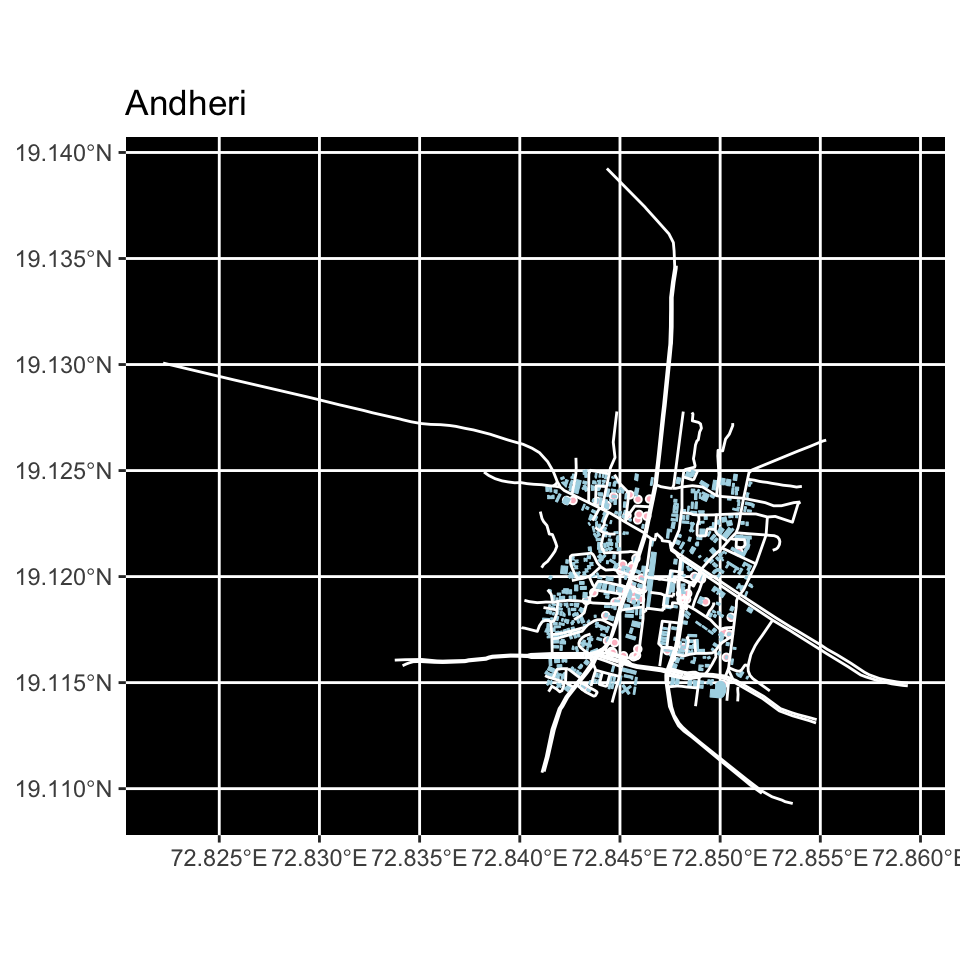
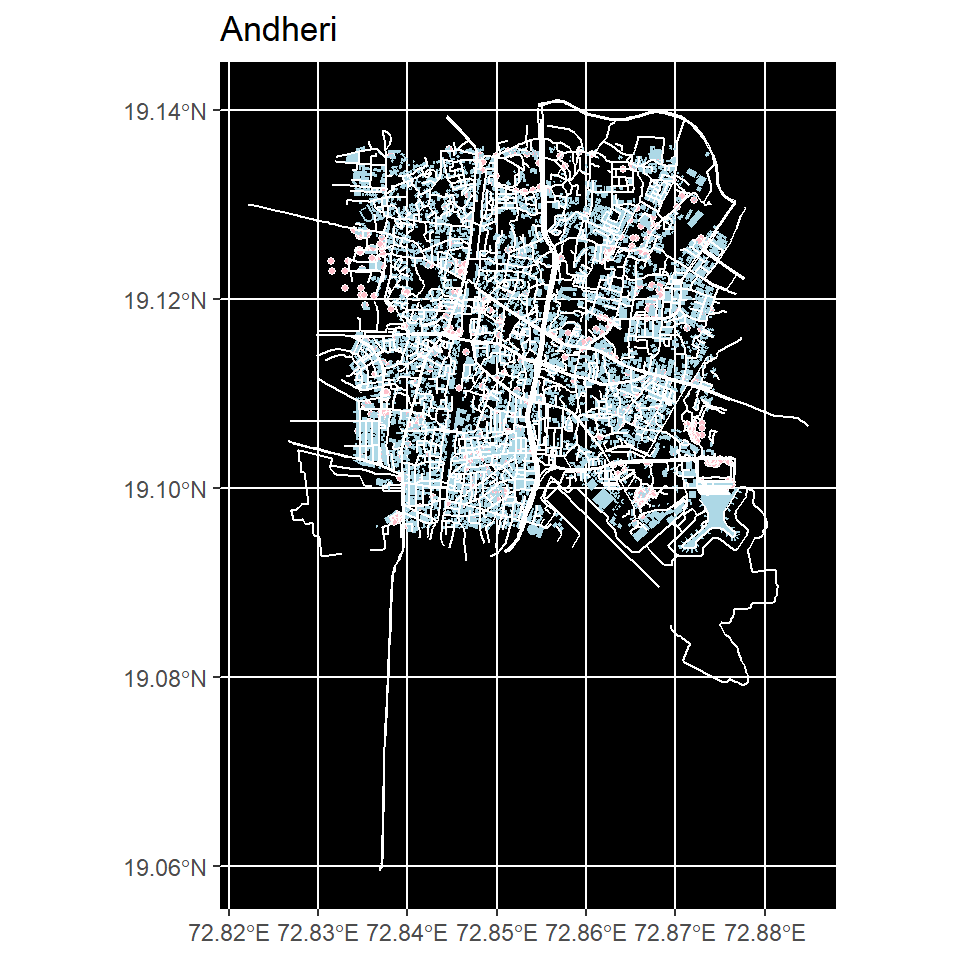
Aarushi

diff --git a/content/portfolio/2021-07-25-aarushi-paingankar/index.html b/content/portfolio/2021-07-25-aarushi-paingankar/index.html
@@ -50,7 +50,7 @@ depth in mm</p>
 total depth percentage = z / mean</p>
 <p>10.table<br />
 width of top of diamond relative to widest point</p>
-<pre><code>## # A tibble: 6 × 10
+<pre><code>## # A tibble: 6 x 10
 ##   carat cut       color clarity depth table price     x     y     z
 ##   &lt;dbl&gt; &lt;ord&gt;     &lt;ord&gt; &lt;ord&gt;   &lt;dbl&gt; &lt;dbl&gt; &lt;int&gt; &lt;dbl&gt; &lt;dbl&gt; &lt;dbl&gt;
 ## 1  0.23 Ideal     E     SI2      61.5    55   326  3.95  3.98  2.43
@@ -61,16 +61,16 @@ width of top of diamond relative to widest point</p>
 ## 6  0.24 Very Good J     VVS2     62.8    57   336  3.94  3.96  2.48</code></pre>
 <pre><code>## Rows: 53,940
 ## Columns: 10
-## $ carat   &lt;dbl&gt; 0.23, 0.21, 0.23, 0.29, 0.31, 0.24, 0.24, 0.26, 0.22, 0.23, 0.…
-## $ cut     &lt;ord&gt; Ideal, Premium, Good, Premium, Good, Very Good, Very Good, Ver…
-## $ color   &lt;ord&gt; E, E, E, I, J, J, I, H, E, H, J, J, F, J, E, E, I, J, J, J, I,…
-## $ clarity &lt;ord&gt; SI2, SI1, VS1, VS2, SI2, VVS2, VVS1, SI1, VS2, VS1, SI1, VS1, …
-## $ depth   &lt;dbl&gt; 61.5, 59.8, 56.9, 62.4, 63.3, 62.8, 62.3, 61.9, 65.1, 59.4, 64…
-## $ table   &lt;dbl&gt; 55, 61, 65, 58, 58, 57, 57, 55, 61, 61, 55, 56, 61, 54, 62, 58…
-## $ price   &lt;int&gt; 326, 326, 327, 334, 335, 336, 336, 337, 337, 338, 339, 340, 34…
-## $ x       &lt;dbl&gt; 3.95, 3.89, 4.05, 4.20, 4.34, 3.94, 3.95, 4.07, 3.87, 4.00, 4.…
-## $ y       &lt;dbl&gt; 3.98, 3.84, 4.07, 4.23, 4.35, 3.96, 3.98, 4.11, 3.78, 4.05, 4.…
-## $ z       &lt;dbl&gt; 2.43, 2.31, 2.31, 2.63, 2.75, 2.48, 2.47, 2.53, 2.49, 2.39, 2.…</code></pre>
+## $ carat   &lt;dbl&gt; 0.23, 0.21, 0.23, 0.29, 0.31, 0.24, 0.24, 0.26, 0.22, 0.23, 0.~
+## $ cut     &lt;ord&gt; Ideal, Premium, Good, Premium, Good, Very Good, Very Good, Ver~
+## $ color   &lt;ord&gt; E, E, E, I, J, J, I, H, E, H, J, J, F, J, E, E, I, J, J, J, I,~
+## $ clarity &lt;ord&gt; SI2, SI1, VS1, VS2, SI2, VVS2, VVS1, SI1, VS2, VS1, SI1, VS1, ~
+## $ depth   &lt;dbl&gt; 61.5, 59.8, 56.9, 62.4, 63.3, 62.8, 62.3, 61.9, 65.1, 59.4, 64~
+## $ table   &lt;dbl&gt; 55, 61, 65, 58, 58, 57, 57, 55, 61, 61, 55, 56, 61, 54, 62, 58~
+## $ price   &lt;int&gt; 326, 326, 327, 334, 335, 336, 336, 337, 337, 338, 339, 340, 34~
+## $ x       &lt;dbl&gt; 3.95, 3.89, 4.05, 4.20, 4.34, 3.94, 3.95, 4.07, 3.87, 4.00, 4.~
+## $ y       &lt;dbl&gt; 3.98, 3.84, 4.07, 4.23, 4.35, 3.96, 3.98, 4.11, 3.78, 4.05, 4.~
+## $ z       &lt;dbl&gt; 2.43, 2.31, 2.31, 2.63, 2.75, 2.48, 2.47, 2.53, 2.49, 2.39, 2.~</code></pre>
 <p><strong>Two bar graphs of the diamonds.</strong></p>
 <p><strong>The first divides the diamonds based on the cut and the colour indicates the clarity. The second divides them based on the depth and the colour divides them based on clarity.</strong></p>
 <p><img src="plot-1-1.png" width="480" /></p>
@@ -80,35 +80,38 @@ width of top of diamond relative to widest point</p>
 <p><strong>The below dataset lists the names of artists, their birth and death years. the titles of the paintings they have made, the year it was aquired, their gender, department etc.</strong></p>
 <pre><code>## Rows: 2,253
 ## Columns: 23
-## $ title             &lt;chr&gt; &quot;Rope and People, I&quot;, &quot;Fire in the Evening&quot;, &quot;Portra…
-## $ artist            &lt;chr&gt; &quot;Joan Miró&quot;, &quot;Paul Klee&quot;, &quot;Paul Klee&quot;, &quot;Pablo Picass…
-## $ artist_bio        &lt;chr&gt; &quot;(Spanish, 1893–1983)&quot;, &quot;(German, born Switzerland. …
-## $ artist_birth_year &lt;dbl&gt; 1893, 1879, 1879, 1881, 1880, 1879, 1943, 1880, 1839…
-## $ artist_death_year &lt;dbl&gt; 1983, 1940, 1940, 1973, 1946, 1953, 1977, 1950, 1906…
-## $ num_artists       &lt;dbl&gt; 1, 1, 1, 1, 1, 1, 1, 1, 1, 1, 1, 1, 1, 1, 1, 1, 1, 1…
-## $ n_female_artists  &lt;dbl&gt; 0, 0, 0, 0, 0, 0, 0, 0, 0, 0, 0, 0, 0, 0, 0, 0, 0, 0…
-## $ n_male_artists    &lt;dbl&gt; 1, 1, 1, 1, 1, 1, 1, 1, 1, 1, 1, 1, 1, 1, 1, 1, 1, 1…
-## $ artist_gender     &lt;chr&gt; &quot;Male&quot;, &quot;Male&quot;, &quot;Male&quot;, &quot;Male&quot;, &quot;Male&quot;, &quot;Male&quot;, &quot;Mal…
-## $ year_acquired     &lt;dbl&gt; 1936, 1970, 1966, 1955, 1939, 1968, 1997, 1931, 1934…
-## $ year_created      &lt;dbl&gt; 1935, 1929, 1927, 1919, 1925, 1919, 1970, 1929, 1885…
-## $ circumference_cm  &lt;lgl&gt; NA, NA, NA, NA, NA, NA, NA, NA, NA, NA, NA, NA, NA, …
-## $ depth_cm          &lt;dbl&gt; NA, NA, NA, NA, NA, NA, NA, NA, NA, NA, NA, NA, NA, …
-## $ diameter_cm       &lt;lgl&gt; NA, NA, NA, NA, NA, NA, NA, NA, NA, NA, NA, NA, NA, …
-## $ height_cm         &lt;dbl&gt; 104.8, 33.8, 60.3, 215.9, 50.8, 129.2, 200.0, 54.6, …
-## $ length_cm         &lt;lgl&gt; NA, NA, NA, NA, NA, NA, NA, NA, NA, NA, NA, NA, NA, …
-## $ width_cm          &lt;dbl&gt; 74.6, 33.3, 36.8, 78.7, 54.0, 89.9, 200.0, 38.1, 96.…
-## $ seat_height_cm    &lt;lgl&gt; NA, NA, NA, NA, NA, NA, NA, NA, NA, NA, NA, NA, NA, …
-## $ purchase          &lt;lgl&gt; FALSE, FALSE, FALSE, FALSE, FALSE, FALSE, FALSE, FAL…
-## $ gift              &lt;lgl&gt; TRUE, FALSE, FALSE, TRUE, TRUE, FALSE, TRUE, TRUE, F…
-## $ exchange          &lt;lgl&gt; FALSE, FALSE, FALSE, FALSE, TRUE, FALSE, FALSE, FALS…
-## $ classification    &lt;chr&gt; &quot;Painting&quot;, &quot;Painting&quot;, &quot;Painting&quot;, &quot;Painting&quot;, &quot;Pai…
-## $ department        &lt;chr&gt; &quot;Painting &amp; Sculpture&quot;, &quot;Painting &amp; Sculpture&quot;, &quot;Pai…</code></pre>
+## $ title             &lt;chr&gt; &quot;Rope and People, I&quot;, &quot;Fire in the Evening&quot;, &quot;Portra~
+## $ artist            &lt;chr&gt; &quot;Joan Miró&quot;, &quot;Paul Klee&quot;, &quot;Paul Klee&quot;, &quot;Pablo Picass~
+## $ artist_bio        &lt;chr&gt; &quot;(Spanish, 1893–1983)&quot;, &quot;(German, born Switzerland. ~
+## $ artist_birth_year &lt;dbl&gt; 1893, 1879, 1879, 1881, 1880, 1879, 1943, 1880, 1839~
+## $ artist_death_year &lt;dbl&gt; 1983, 1940, 1940, 1973, 1946, 1953, 1977, 1950, 1906~
+## $ num_artists       &lt;dbl&gt; 1, 1, 1, 1, 1, 1, 1, 1, 1, 1, 1, 1, 1, 1, 1, 1, 1, 1~
+## $ n_female_artists  &lt;dbl&gt; 0, 0, 0, 0, 0, 0, 0, 0, 0, 0, 0, 0, 0, 0, 0, 0, 0, 0~
+## $ n_male_artists    &lt;dbl&gt; 1, 1, 1, 1, 1, 1, 1, 1, 1, 1, 1, 1, 1, 1, 1, 1, 1, 1~
+## $ artist_gender     &lt;chr&gt; &quot;Male&quot;, &quot;Male&quot;, &quot;Male&quot;, &quot;Male&quot;, &quot;Male&quot;, &quot;Male&quot;, &quot;Mal~
+## $ year_acquired     &lt;dbl&gt; 1936, 1970, 1966, 1955, 1939, 1968, 1997, 1931, 1934~
+## $ year_created      &lt;dbl&gt; 1935, 1929, 1927, 1919, 1925, 1919, 1970, 1929, 1885~
+## $ circumference_cm  &lt;lgl&gt; NA, NA, NA, NA, NA, NA, NA, NA, NA, NA, NA, NA, NA, ~
+## $ depth_cm          &lt;dbl&gt; NA, NA, NA, NA, NA, NA, NA, NA, NA, NA, NA, NA, NA, ~
+## $ diameter_cm       &lt;lgl&gt; NA, NA, NA, NA, NA, NA, NA, NA, NA, NA, NA, NA, NA, ~
+## $ height_cm         &lt;dbl&gt; 104.8, 33.8, 60.3, 215.9, 50.8, 129.2, 200.0, 54.6, ~
+## $ length_cm         &lt;lgl&gt; NA, NA, NA, NA, NA, NA, NA, NA, NA, NA, NA, NA, NA, ~
+## $ width_cm          &lt;dbl&gt; 74.6, 33.3, 36.8, 78.7, 54.0, 89.9, 200.0, 38.1, 96.~
+## $ seat_height_cm    &lt;lgl&gt; NA, NA, NA, NA, NA, NA, NA, NA, NA, NA, NA, NA, NA, ~
+## $ purchase          &lt;lgl&gt; FALSE, FALSE, FALSE, FALSE, FALSE, FALSE, FALSE, FAL~
+## $ gift              &lt;lgl&gt; TRUE, FALSE, FALSE, TRUE, TRUE, FALSE, TRUE, TRUE, F~
+## $ exchange          &lt;lgl&gt; FALSE, FALSE, FALSE, FALSE, TRUE, FALSE, FALSE, FALS~
+## $ classification    &lt;chr&gt; &quot;Painting&quot;, &quot;Painting&quot;, &quot;Painting&quot;, &quot;Painting&quot;, &quot;Pai~
+## $ department        &lt;chr&gt; &quot;Painting &amp; Sculpture&quot;, &quot;Painting &amp; Sculpture&quot;, &quot;Pai~</code></pre>
 <p><strong>The graph below is a scatter plot of the height in cm of the works and the year they were acquired. Here there is a facet wrap used which divides the points in two i.e. purchase TRUE or FALSE, where the light green is True and dark green is False</strong></p>
 <p><img src="unnamed-chunk-1-1.png" width="480" /></p>
+</div>
+<div id="graph-3" class="section level2">
+<h2>Graph 3</h2>
 <p><strong>The map below is a map of Andheri, Mumbai. The pink shapes indicate the amenities and the blue ones show the buildings in andheri. The white is for the highway. I set the background of the map to black so that the light blue, white and pink stands out. </strong></p>
 <pre><code>##        min      max
-## x 72.84142 72.85142
-## y 19.11470 19.12470</code></pre>
+## x 72.83420 72.87420
+## y 19.09588 19.13588</code></pre>
 <pre><code>##  num [1:2, 1:2] 72.8 19.1 72.9 19.1
 ##  - attr(*, &quot;dimnames&quot;)=List of 2
 ##   ..$ : chr [1:2] &quot;x&quot; &quot;y&quot;

diff --git a/content/portfolio/2021-07-25-aarushi-paingankar/index.md b/content/portfolio/2021-07-25-aarushi-paingankar/index.md
@@ -66,7 +66,7 @@ Im Aarushi and I've opted for IADP. I'm pretty new to coding in general. The fol
 
 
 ```
-## # A tibble: 6 × 10
+## # A tibble: 6 x 10
 ##   carat cut       color clarity depth table price     x     y     z
 ##   <dbl> <ord>     <ord> <ord>   <dbl> <dbl> <int> <dbl> <dbl> <dbl>
 ## 1  0.23 Ideal     E     SI2      61.5    55   326  3.95  3.98  2.43
@@ -80,16 +80,16 @@ Im Aarushi and I've opted for IADP. I'm pretty new to coding in general. The fol
 ```
 ## Rows: 53,940
 ## Columns: 10
-## $ carat   <dbl> 0.23, 0.21, 0.23, 0.29, 0.31, 0.24, 0.24, 0.26, 0.22, 0.23, 0.…
-## $ cut     <ord> Ideal, Premium, Good, Premium, Good, Very Good, Very Good, Ver…
-## $ color   <ord> E, E, E, I, J, J, I, H, E, H, J, J, F, J, E, E, I, J, J, J, I,…
-## $ clarity <ord> SI2, SI1, VS1, VS2, SI2, VVS2, VVS1, SI1, VS2, VS1, SI1, VS1, …
-## $ depth   <dbl> 61.5, 59.8, 56.9, 62.4, 63.3, 62.8, 62.3, 61.9, 65.1, 59.4, 64…
-## $ table   <dbl> 55, 61, 65, 58, 58, 57, 57, 55, 61, 61, 55, 56, 61, 54, 62, 58…
-## $ price   <int> 326, 326, 327, 334, 335, 336, 336, 337, 337, 338, 339, 340, 34…
-## $ x       <dbl> 3.95, 3.89, 4.05, 4.20, 4.34, 3.94, 3.95, 4.07, 3.87, 4.00, 4.…
-## $ y       <dbl> 3.98, 3.84, 4.07, 4.23, 4.35, 3.96, 3.98, 4.11, 3.78, 4.05, 4.…
-## $ z       <dbl> 2.43, 2.31, 2.31, 2.63, 2.75, 2.48, 2.47, 2.53, 2.49, 2.39, 2.…
+## $ carat   <dbl> 0.23, 0.21, 0.23, 0.29, 0.31, 0.24, 0.24, 0.26, 0.22, 0.23, 0.~
+## $ cut     <ord> Ideal, Premium, Good, Premium, Good, Very Good, Very Good, Ver~
+## $ color   <ord> E, E, E, I, J, J, I, H, E, H, J, J, F, J, E, E, I, J, J, J, I,~
+## $ clarity <ord> SI2, SI1, VS1, VS2, SI2, VVS2, VVS1, SI1, VS2, VS1, SI1, VS1, ~
+## $ depth   <dbl> 61.5, 59.8, 56.9, 62.4, 63.3, 62.8, 62.3, 61.9, 65.1, 59.4, 64~
+## $ table   <dbl> 55, 61, 65, 58, 58, 57, 57, 55, 61, 61, 55, 56, 61, 54, 62, 58~
+## $ price   <int> 326, 326, 327, 334, 335, 336, 336, 337, 337, 338, 339, 340, 34~
+## $ x       <dbl> 3.95, 3.89, 4.05, 4.20, 4.34, 3.94, 3.95, 4.07, 3.87, 4.00, 4.~
+## $ y       <dbl> 3.98, 3.84, 4.07, 4.23, 4.35, 3.96, 3.98, 4.11, 3.78, 4.05, 4.~
+## $ z       <dbl> 2.43, 2.31, 2.31, 2.63, 2.75, 2.48, 2.47, 2.53, 2.49, 2.39, 2.~
 ```
 
 **Two bar graphs of the diamonds.**
@@ -107,44 +107,44 @@ Im Aarushi and I've opted for IADP. I'm pretty new to coding in general. The fol
 ```
 ## Rows: 2,253
 ## Columns: 23
-## $ title             <chr> "Rope and People, I", "Fire in the Evening", "Portra…
-## $ artist            <chr> "Joan Miró", "Paul Klee", "Paul Klee", "Pablo Picass…
-## $ artist_bio        <chr> "(Spanish, 1893–1983)", "(German, born Switzerland. …
-## $ artist_birth_year <dbl> 1893, 1879, 1879, 1881, 1880, 1879, 1943, 1880, 1839…
-## $ artist_death_year <dbl> 1983, 1940, 1940, 1973, 1946, 1953, 1977, 1950, 1906…
-## $ num_artists       <dbl> 1, 1, 1, 1, 1, 1, 1, 1, 1, 1, 1, 1, 1, 1, 1, 1, 1, 1…
-## $ n_female_artists  <dbl> 0, 0, 0, 0, 0, 0, 0, 0, 0, 0, 0, 0, 0, 0, 0, 0, 0, 0…
-## $ n_male_artists    <dbl> 1, 1, 1, 1, 1, 1, 1, 1, 1, 1, 1, 1, 1, 1, 1, 1, 1, 1…
-## $ artist_gender     <chr> "Male", "Male", "Male", "Male", "Male", "Male", "Mal…
-## $ year_acquired     <dbl> 1936, 1970, 1966, 1955, 1939, 1968, 1997, 1931, 1934…
-## $ year_created      <dbl> 1935, 1929, 1927, 1919, 1925, 1919, 1970, 1929, 1885…
-## $ circumference_cm  <lgl> NA, NA, NA, NA, NA, NA, NA, NA, NA, NA, NA, NA, NA, …
-## $ depth_cm          <dbl> NA, NA, NA, NA, NA, NA, NA, NA, NA, NA, NA, NA, NA, …
-## $ diameter_cm       <lgl> NA, NA, NA, NA, NA, NA, NA, NA, NA, NA, NA, NA, NA, …
-## $ height_cm         <dbl> 104.8, 33.8, 60.3, 215.9, 50.8, 129.2, 200.0, 54.6, …
-## $ length_cm         <lgl> NA, NA, NA, NA, NA, NA, NA, NA, NA, NA, NA, NA, NA, …
-## $ width_cm          <dbl> 74.6, 33.3, 36.8, 78.7, 54.0, 89.9, 200.0, 38.1, 96.…
-## $ seat_height_cm    <lgl> NA, NA, NA, NA, NA, NA, NA, NA, NA, NA, NA, NA, NA, …
-## $ purchase          <lgl> FALSE, FALSE, FALSE, FALSE, FALSE, FALSE, FALSE, FAL…
-## $ gift              <lgl> TRUE, FALSE, FALSE, TRUE, TRUE, FALSE, TRUE, TRUE, F…
-## $ exchange          <lgl> FALSE, FALSE, FALSE, FALSE, TRUE, FALSE, FALSE, FALS…
-## $ classification    <chr> "Painting", "Painting", "Painting", "Painting", "Pai…
-## $ department        <chr> "Painting & Sculpture", "Painting & Sculpture", "Pai…
+## $ title             <chr> "Rope and People, I", "Fire in the Evening", "Portra~
+## $ artist            <chr> "Joan Miró", "Paul Klee", "Paul Klee", "Pablo Picass~
+## $ artist_bio        <chr> "(Spanish, 1893–1983)", "(German, born Switzerland. ~
+## $ artist_birth_year <dbl> 1893, 1879, 1879, 1881, 1880, 1879, 1943, 1880, 1839~
+## $ artist_death_year <dbl> 1983, 1940, 1940, 1973, 1946, 1953, 1977, 1950, 1906~
+## $ num_artists       <dbl> 1, 1, 1, 1, 1, 1, 1, 1, 1, 1, 1, 1, 1, 1, 1, 1, 1, 1~
+## $ n_female_artists  <dbl> 0, 0, 0, 0, 0, 0, 0, 0, 0, 0, 0, 0, 0, 0, 0, 0, 0, 0~
+## $ n_male_artists    <dbl> 1, 1, 1, 1, 1, 1, 1, 1, 1, 1, 1, 1, 1, 1, 1, 1, 1, 1~
+## $ artist_gender     <chr> "Male", "Male", "Male", "Male", "Male", "Male", "Mal~
+## $ year_acquired     <dbl> 1936, 1970, 1966, 1955, 1939, 1968, 1997, 1931, 1934~
+## $ year_created      <dbl> 1935, 1929, 1927, 1919, 1925, 1919, 1970, 1929, 1885~
+## $ circumference_cm  <lgl> NA, NA, NA, NA, NA, NA, NA, NA, NA, NA, NA, NA, NA, ~
+## $ depth_cm          <dbl> NA, NA, NA, NA, NA, NA, NA, NA, NA, NA, NA, NA, NA, ~
+## $ diameter_cm       <lgl> NA, NA, NA, NA, NA, NA, NA, NA, NA, NA, NA, NA, NA, ~
+## $ height_cm         <dbl> 104.8, 33.8, 60.3, 215.9, 50.8, 129.2, 200.0, 54.6, ~
+## $ length_cm         <lgl> NA, NA, NA, NA, NA, NA, NA, NA, NA, NA, NA, NA, NA, ~
+## $ width_cm          <dbl> 74.6, 33.3, 36.8, 78.7, 54.0, 89.9, 200.0, 38.1, 96.~
+## $ seat_height_cm    <lgl> NA, NA, NA, NA, NA, NA, NA, NA, NA, NA, NA, NA, NA, ~
+## $ purchase          <lgl> FALSE, FALSE, FALSE, FALSE, FALSE, FALSE, FALSE, FAL~
+## $ gift              <lgl> TRUE, FALSE, FALSE, TRUE, TRUE, FALSE, TRUE, TRUE, F~
+## $ exchange          <lgl> FALSE, FALSE, FALSE, FALSE, TRUE, FALSE, FALSE, FALS~
+## $ classification    <chr> "Painting", "Painting", "Painting", "Painting", "Pai~
+## $ department        <chr> "Painting & Sculpture", "Painting & Sculpture", "Pai~
 ```
 
 **The graph below is a scatter plot of the height in cm of the works and the year they were acquired. Here there is a facet wrap used which divides the points in two i.e. purchase TRUE or FALSE, where the light green is True and dark green is False**
 
 <img src="unnamed-chunk-1-1.png" width="480" />
 
-
+## Graph 3
 
 **The map below is a map of Andheri, Mumbai. The pink shapes indicate the amenities and the blue ones show the buildings in andheri. The white is for the highway. I set the background of the map to black so that the light blue, white and pink stands out. **
 
 
 ```
 ##        min      max
-## x 72.84142 72.85142
-## y 19.11470 19.12470
+## x 72.83420 72.87420
+## y 19.09588 19.13588
 ```
 
 ```
